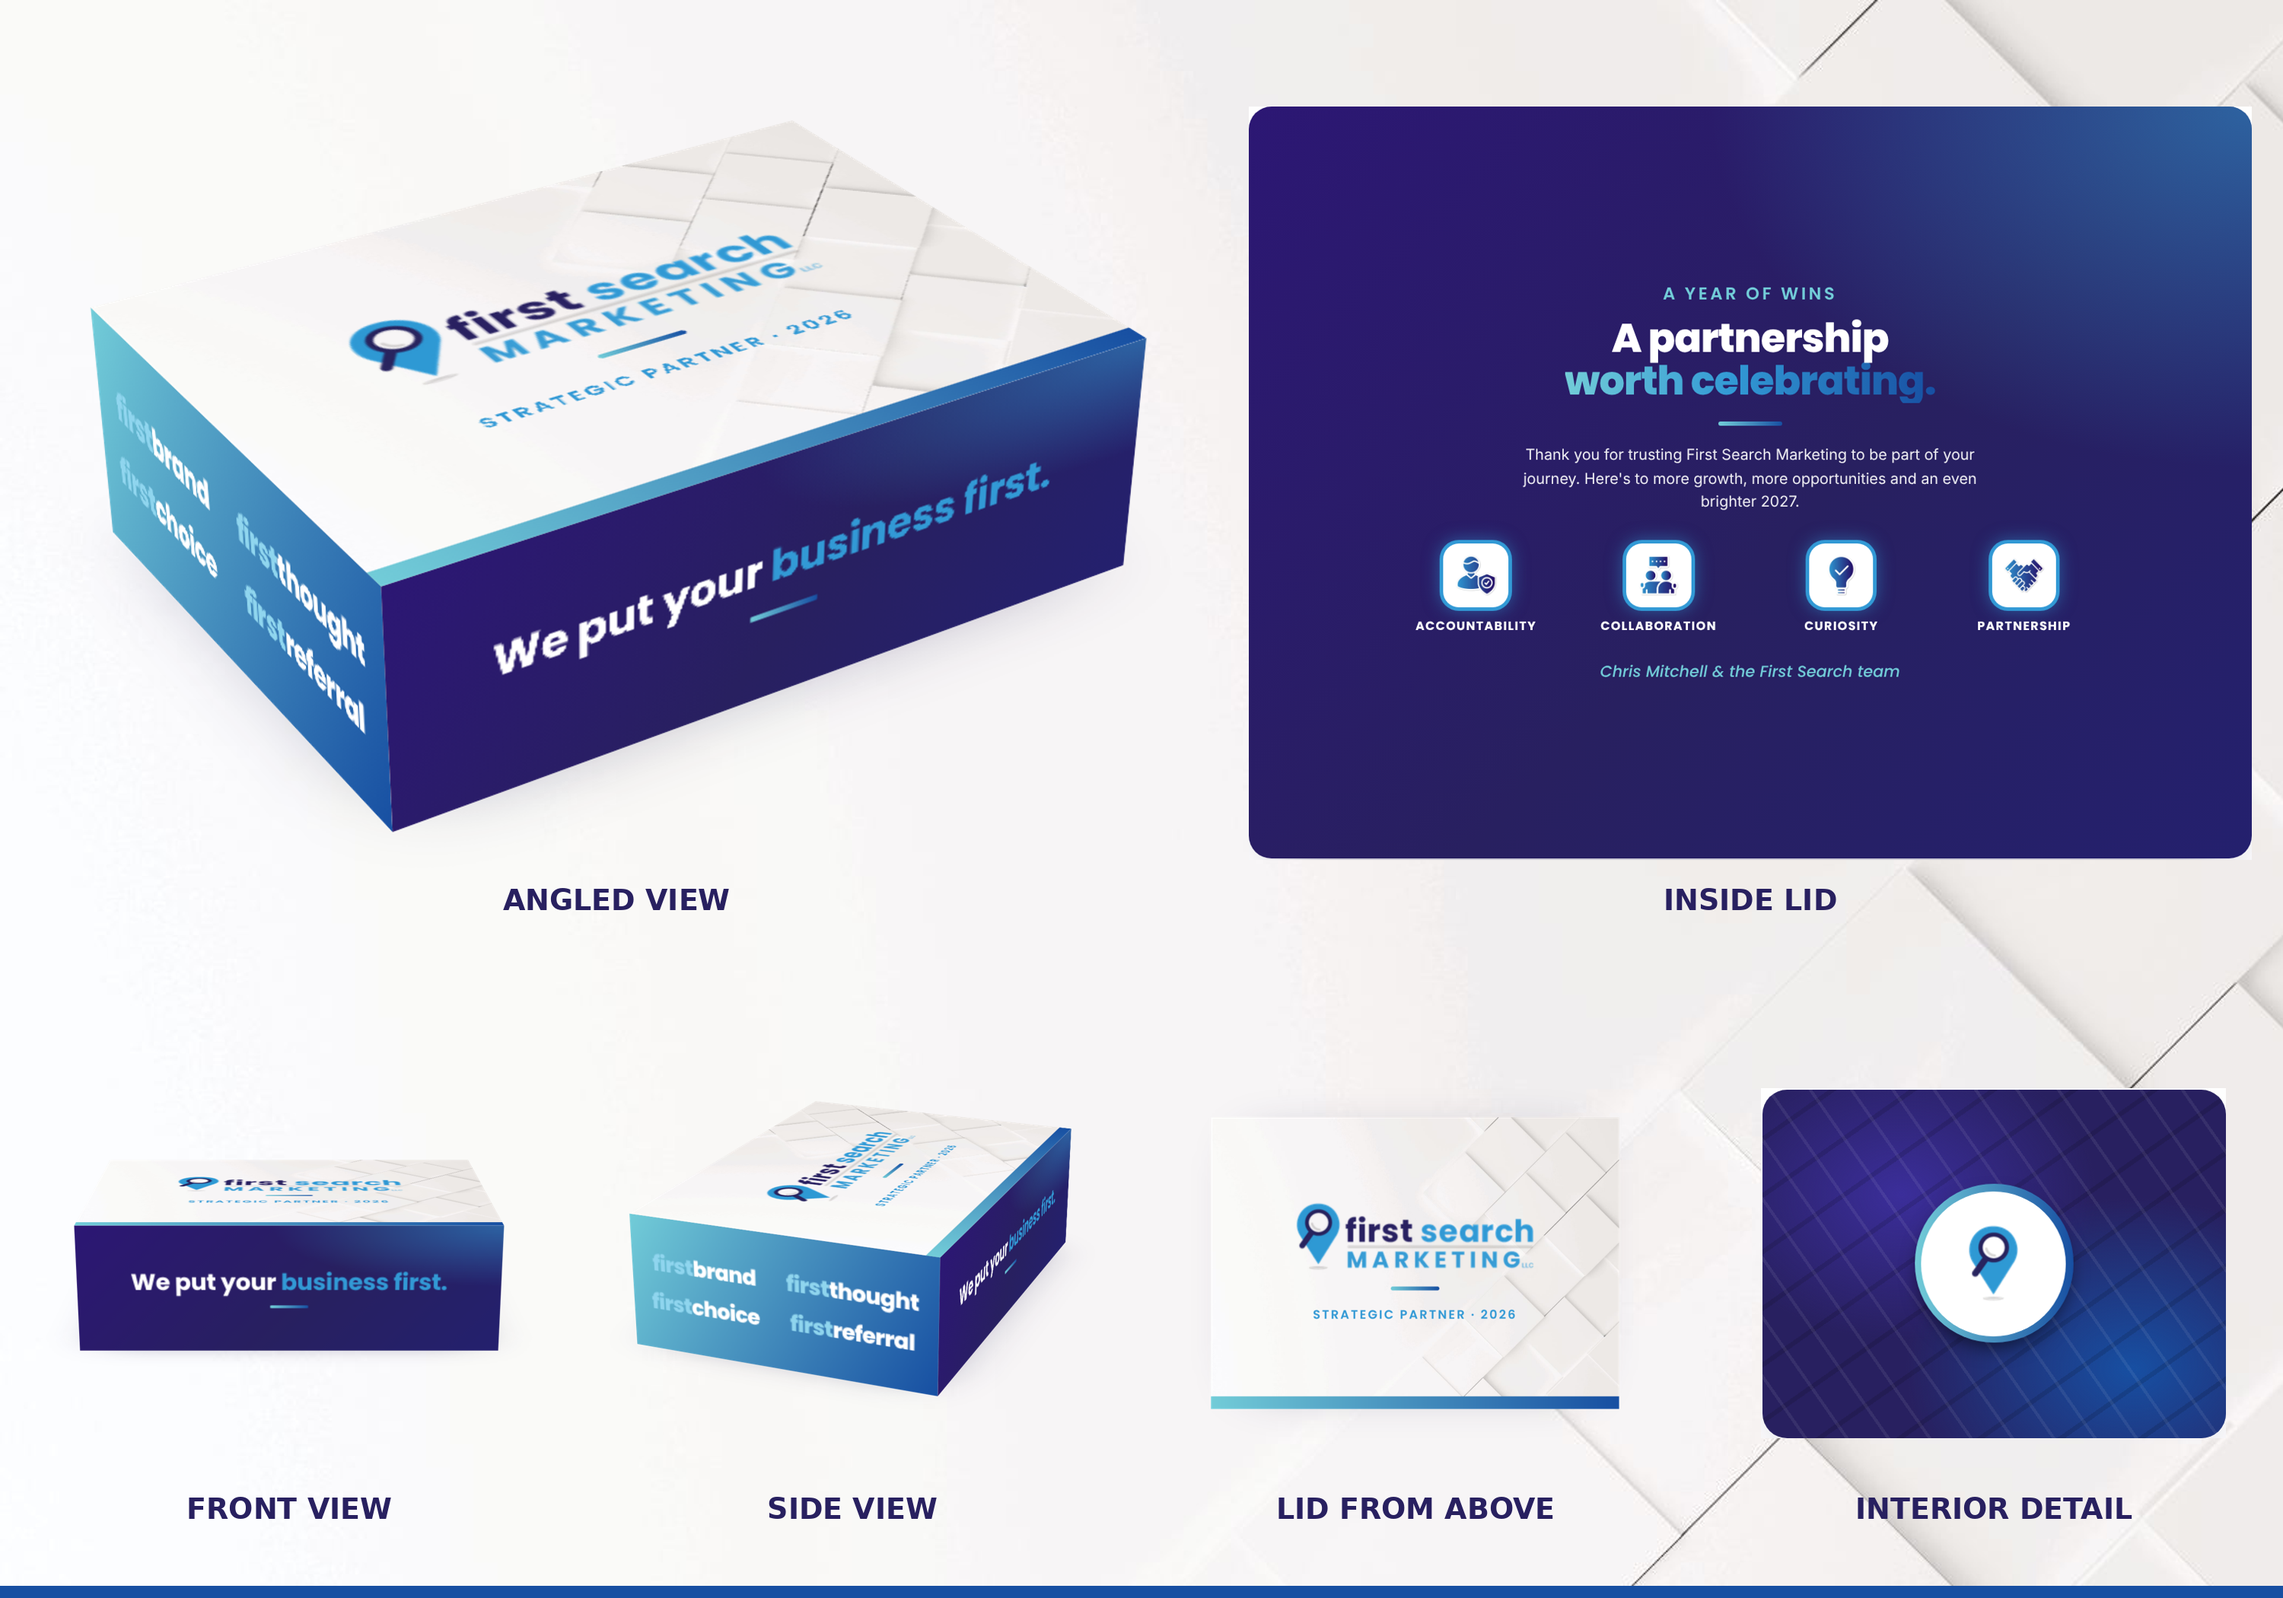
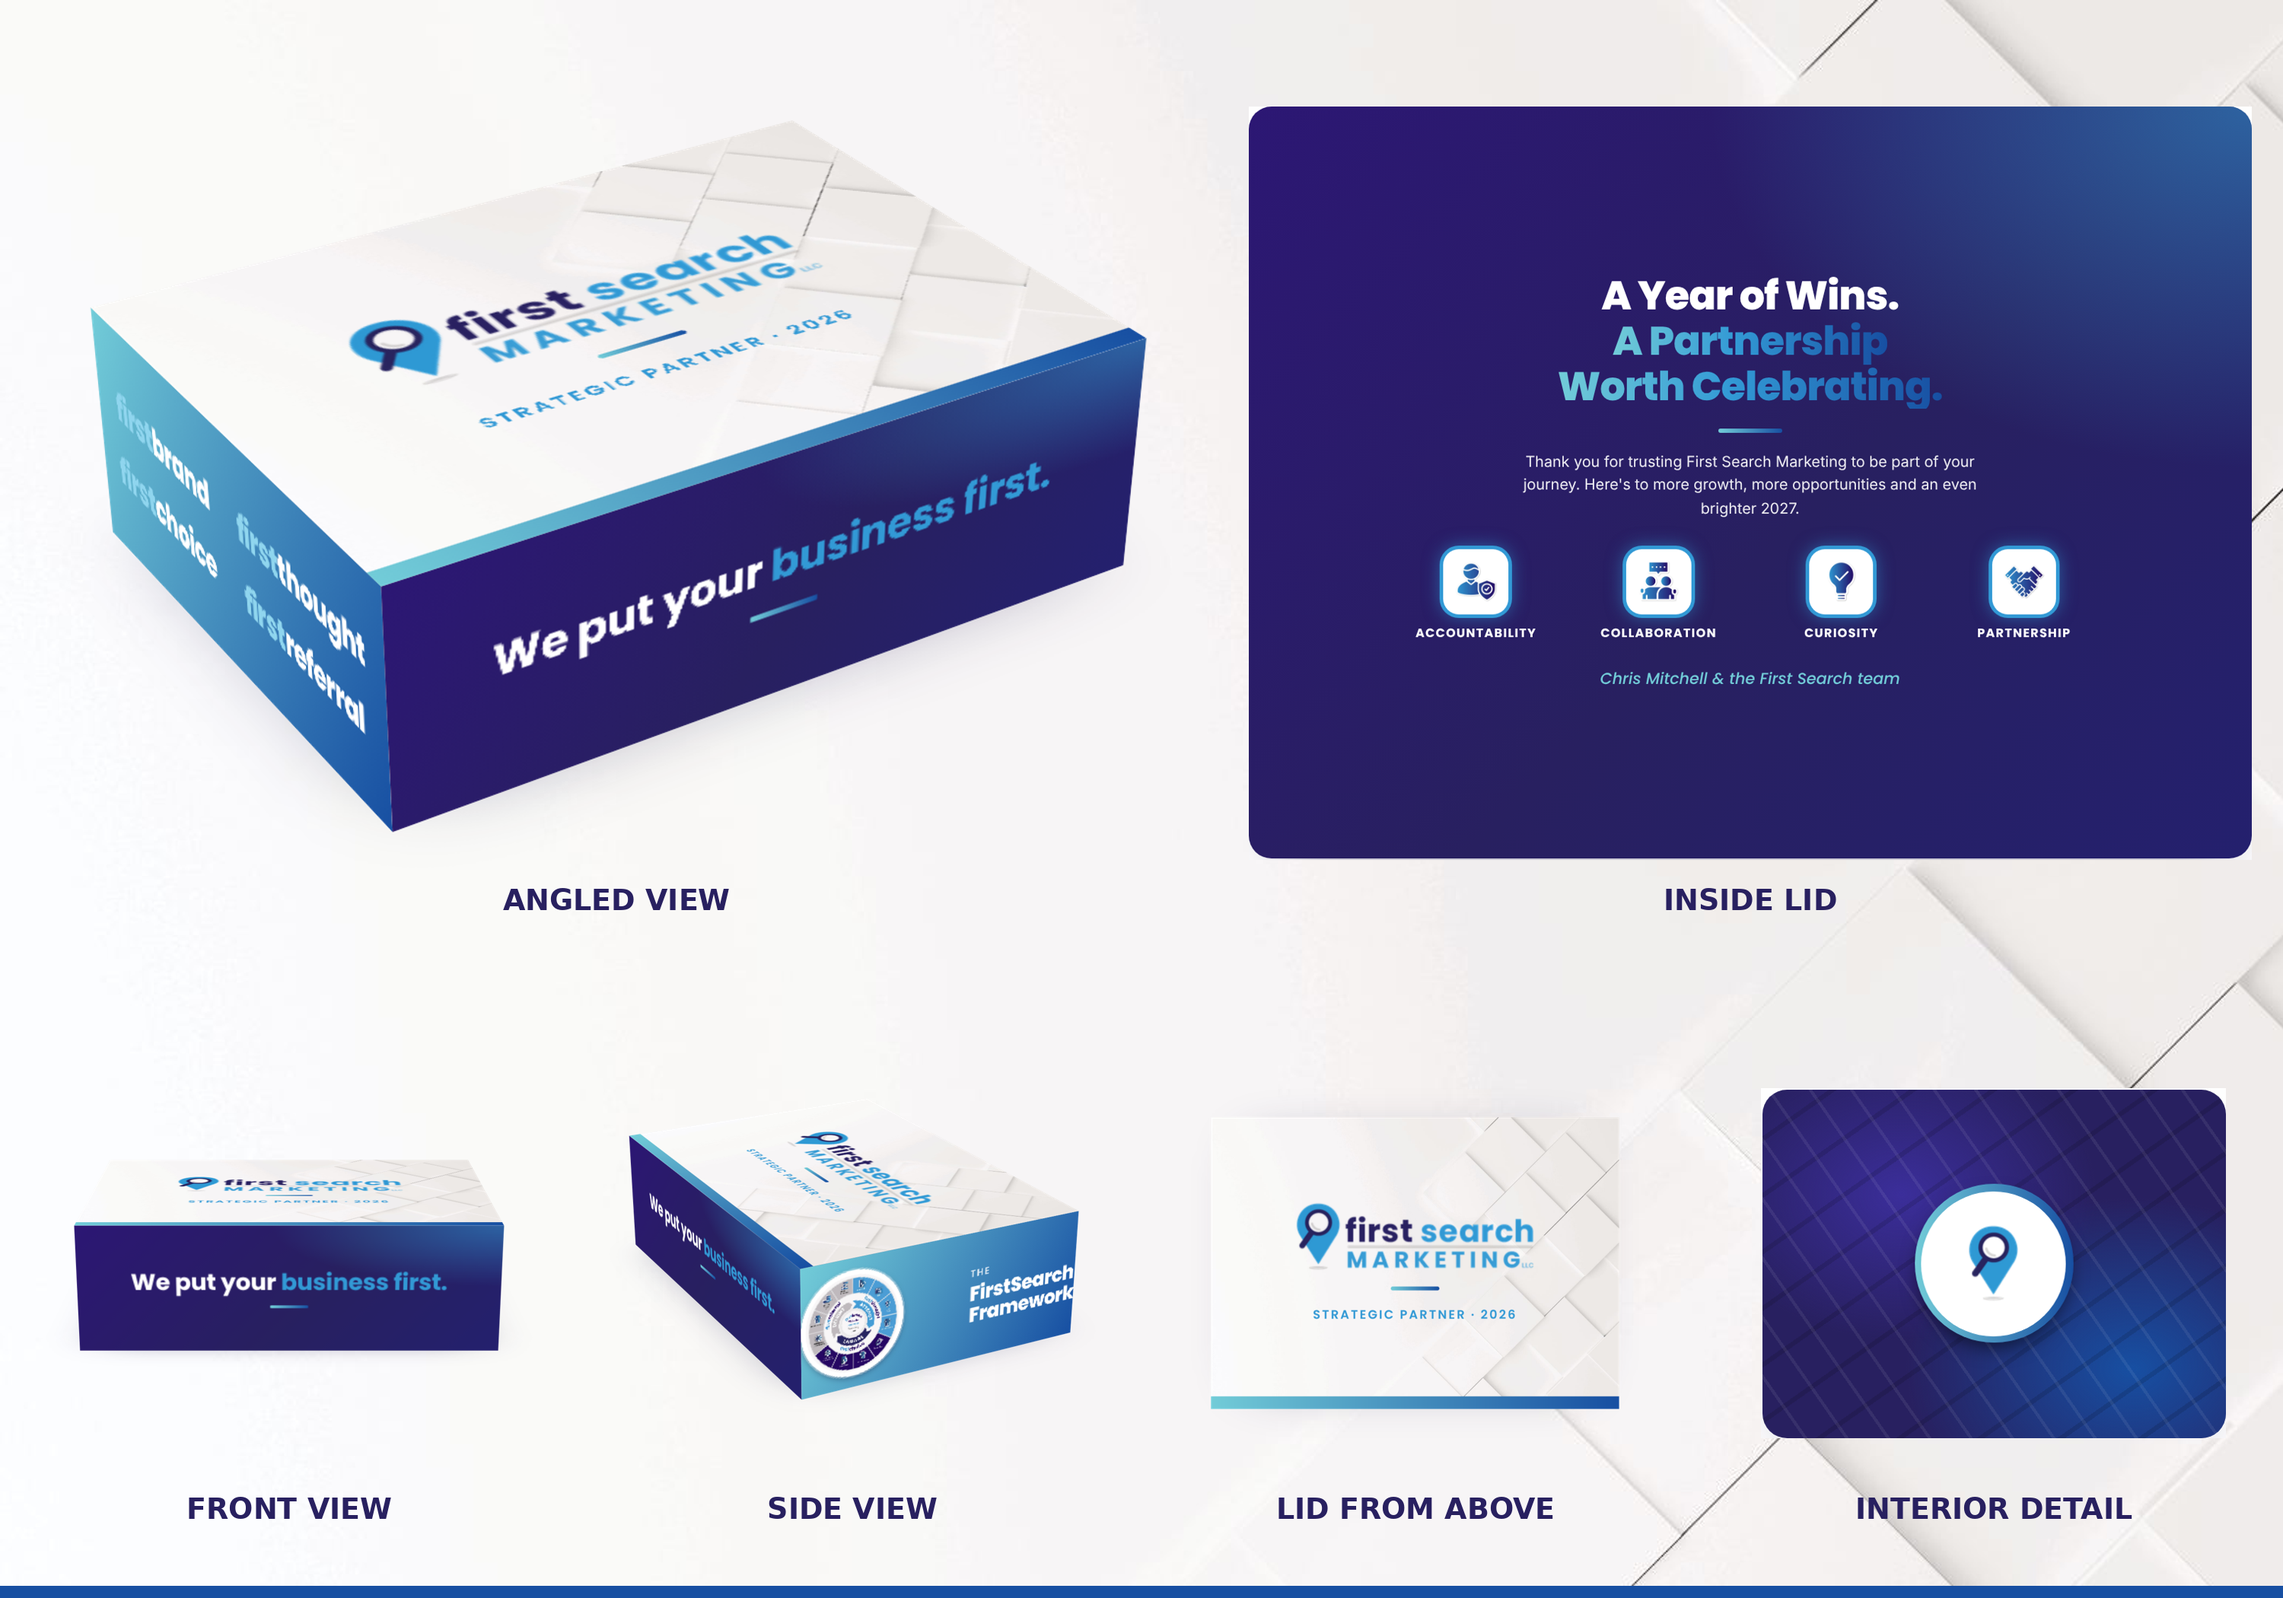
Gift box: title-case two-tone inside lid headline, framework wheel side panel
Claude-Session: https://claude.ai/code/session_013fjRDgxqUEnUcVR5QGeKxu

diff --git a/gift-box/index.html b/gift-box/index.html
@@ -50,7 +50,7 @@ img { display: block; max-width: 100%; }
 .box3d { --w: 420px; --d: 300px; --h: 130px; position: relative; width: var(--w); height: var(--d); transform-style: preserve-3d; transition: transform 1s cubic-bezier(.3, .7, .3, 1); }
 .box3d[data-view="angle"] { transform: rotateX(58deg) rotateZ(-32deg); }
 .box3d[data-view="front"] { transform: rotateX(72deg) rotateZ(0deg); }
-.box3d[data-view="side"] { transform: rotateX(68deg) rotateZ(-68deg); }
+.box3d[data-view="side"] { transform: rotateX(66deg) rotateZ(62deg); }
 .box3d[data-view="top"] { transform: rotateX(0deg) rotateZ(0deg); }
 .face { position: absolute; left: 50%; top: 50%; overflow: hidden; backface-visibility: hidden; }
 .f-top { width: var(--w); height: var(--d); margin: calc(var(--d) / -2) 0 0 calc(var(--w) / -2); transform: translateZ(var(--h)); }
@@ -92,8 +92,9 @@ img { display: block; max-width: 100%; }
 /* INSIDE LID: the thank-you message */
 .art-inside { position: relative; width: 100%; height: 100%; padding: 6cqw 7cqw; background: var(--glow), var(--grad-primary); color: #fff; text-align: center; display: grid; align-content: center; justify-items: center; container-type: inline-size; }
 .art-inside .eb { font: 600 2.4cqw var(--font); letter-spacing: .16em; text-transform: uppercase; color: var(--aqua); }
-.art-inside h3 { margin: 1.4cqw 0 0; font: 800 5.6cqw/1.08 var(--font); color: #fff; letter-spacing: -.02em; }
+.art-inside h3 { margin: 0; font: 800 5.6cqw/1.12 var(--font); color: #fff; letter-spacing: -.02em; }
 .art-inside h3 span { display: block; }
+.art-inside h3 .gt { width: fit-content; margin-inline: auto; }
 .art-inside .rule { width: 9cqw; height: .6cqw; margin: 2.6cqw 0; border-radius: 1cqw; background: var(--grad); }
 .art-inside p { max-width: 64cqw; margin: 0; font: 400 2.1cqw/1.55 var(--ui); color: rgba(255, 255, 255, .92); }
 .vals { display: grid; grid-template-columns: repeat(4, minmax(0, 1fr)); gap: 2cqw; width: 100%; margin-top: 4cqw; }
@@ -143,6 +144,11 @@ img { display: block; max-width: 100%; }
 .r-top { aspect-ratio: 12 / 9; }
 .r-front { aspect-ratio: 12 / 4; }
 .r-side { aspect-ratio: 9 / 4; }
+.art-side--wheel { grid-auto-flow: column; justify-content: center; align-items: center; gap: 5cqw; }
+.art-side--wheel .wh { width: 82cqh; aspect-ratio: 1; border-radius: 50%; padding: 3cqh; background: #fff; box-shadow: 0 0 0 1.2cqh rgba(255, 255, 255, .35), 0 2cqh 5cqh -1cqh rgba(16, 12, 48, .5); }
+.art-side--wheel .wh img { width: 100%; height: 100%; }
+.art-side--wheel p { margin: 0; font: 800 7cqw/1.05 var(--font); color: #fff; letter-spacing: -.02em; text-align: left; }
+.art-side--wheel p span { display: block; font: 600 3.4cqw var(--font); letter-spacing: .14em; text-transform: uppercase; color: rgba(255, 255, 255, .85); margin-bottom: 1cqh; }
 .r-inside { aspect-ratio: 12 / 9; }
 .r-tissue { aspect-ratio: 12 / 9; }
 .r-card { aspect-ratio: 5 / 7; border-radius: 0; box-shadow: none; }
@@ -208,7 +214,7 @@ footer.foot b { color: #fff; }
         <div class="shadow"></div>
         <div class="face f-top"><div class="art-top"><div class="in"><img class="logo" src="img/logo.png" alt=""><span class="rule"></span><span class="eb">Strategic Partner · 2026</span></div></div></div>
         <div class="face f-front"><div class="art-front"><div><p>We put your <span>business first.</span></p><div class="rule"></div></div></div></div>
-        <div class="face f-right"><div class="art-side"><ul><li><span class="plogo plogo--light"><b>first</b>brand</span></li><li><span class="plogo plogo--light"><b>first</b>thought</span></li><li><span class="plogo plogo--light"><b>first</b>choice</span></li><li><span class="plogo plogo--light"><b>first</b>referral</span></li></ul></div></div>
+        <div class="face f-right"><div class="art-side art-side--wheel"><div class="wh"><img src="img/framework-wheel.webp" alt="The FirstSearch Framework wheel"></div><p><span>The</span>FirstSearch<br>Framework</p></div></div>
         <div class="face f-left"><div class="art-side"><ul><li><span class="plogo plogo--light"><b>first</b>brand</span></li><li><span class="plogo plogo--light"><b>first</b>thought</span></li><li><span class="plogo plogo--light"><b>first</b>choice</span></li><li><span class="plogo plogo--light"><b>first</b>referral</span></li></ul></div></div>
         <div class="face f-back"><div class="art-front"><div><p>We put your <span>business first.</span></p></div></div></div>
       </div>
@@ -236,9 +242,9 @@ footer.foot b { color: #fff; }
       <figure class="panel panel--narrow">
         <div class="sides">
           <div class="frame r-side"><div class="art-side"><ul><li><span class="plogo plogo--light"><b>first</b>brand</span><small>Build the foundation</small></li><li><span class="plogo plogo--light"><b>first</b>thought</span><small>Get found first</small></li><li><span class="plogo plogo--light"><b>first</b>choice</span><small>Get chosen</small></li><li><span class="plogo plogo--light"><b>first</b>referral</span><small>Get referred</small></li></ul></div></div>
-          <div class="frame r-side"><div class="art-side"><ul><li><span class="plogo plogo--light"><b>first</b>brand</span></li><li><span class="plogo plogo--light"><b>first</b>thought</span></li><li><span class="plogo plogo--light"><b>first</b>choice</span></li><li><span class="plogo plogo--light"><b>first</b>referral</span></li></ul></div></div>
+          <div class="frame r-side"><div class="art-side art-side--wheel"><div class="wh"><img src="img/framework-wheel.webp" alt="The FirstSearch Framework wheel"></div><p><span>The</span>FirstSearch<br>Framework</p></div></div>
         </div>
-        <figcaption><b>2 · Side panels</b><span>9 × 4 in each</span><p>Brand gradient with the four FirstSearch stages in place of "Strategy · Visibility · Leads · Growth". One side adds each stage's job.</p></figcaption>
+        <figcaption><b>2 · Side panels</b><span>9 × 4 in each</span><p>Brand gradient on both sides: the four FirstSearch stages (in place of "Strategy · Visibility · Leads · Growth") on one, the framework wheel on the opposite side.</p></figcaption>
       </figure>
       <figure class="panel panel--wide">
         <div class="frame r-front"><div class="art-front"><div><p>We put your <span>business first.</span></p><div class="rule"></div></div></div></div>
@@ -250,8 +256,7 @@ footer.foot b { color: #fff; }
       </figure>
       <figure class="panel panel--wide">
         <div class="frame r-inside"><div class="art-inside">
-          <span class="eb">A year of wins</span>
-          <h3><span>A partnership</span><span class="gt">worth celebrating.</span></h3>
+          <h3><span>A Year of Wins.</span><span class="gt">A Partnership</span><span class="gt">Worth Celebrating.</span></h3>
           <div class="rule"></div>
           <p>Thank you for trusting First Search Marketing to be part of your journey. Here's to more growth, more opportunities and an even brighter 2027.</p>
           <div class="vals">
@@ -317,9 +322,9 @@ footer.foot b { color: #fff; }
           <li><span>Bright blue fade swapped for our approved aqua-to-royal gradient and purple.</span></li>
           <li><span>Lid now matches the website hero: white, geometric texture, full-colour logo.</span></li>
           <li><span>Tagline set exactly like the website footer: "We put your <b>business first.</b>"</span></li>
-          <li><span>"Strategy · Visibility · Leads · Growth" replaced by the four FirstSearch stage logos.</span></li>
+          <li><span>"Strategy · Visibility · Leads · Growth" replaced by the four stage logos, with the framework wheel on the opposite side.</span></li>
           <li><span>Value icons replaced with our approved brand icons in the About page tile style.</span></li>
-          <li><span>Headline uses the website's two-tone heading: white, then the gradient.</span></li>
+          <li><span>Inside lid headline in the website's two-tone heading: "A Year of Wins." in white, the rest in the gradient.</span></li>
           <li><span>Sticker gets the gradient ring used on our cards and icons.</span></li>
           <li><span>Added a gradient-frame note card for a personal message.</span></li>
         </ul>
